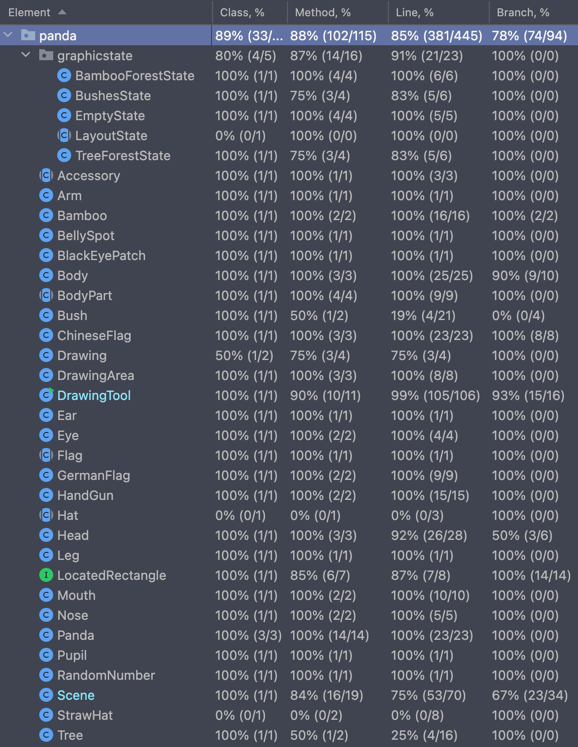
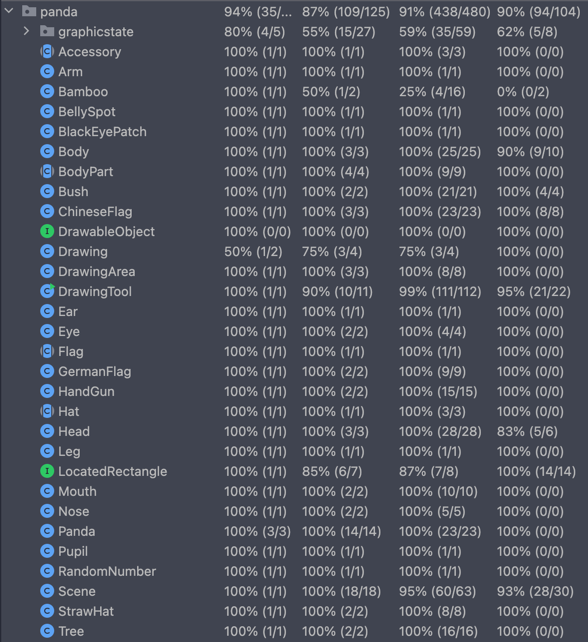
Changes tests for the new state machine + updated coverage and class diagram

Changed region(s): [[0.0, 0.0, 1.0, 0.9969]]

diff --git a/src/test/java/panda/DrawingToolTest.java b/src/test/java/panda/DrawingToolTest.java
@@ -77,29 +77,30 @@ class DrawingToolTest {
     }
 
     @Test
-    void testChangeStateButton() {
-        ActionEvent e = new ActionEvent(drawingTool.getButtons().get(0), 0, "");
-        // traversing through all the possible states by pressing "Change state" button
+    void testChangeToBamboos() {
         assertInstanceOf(EmptyState.class, scene.getState());
+        ActionEvent e = new ActionEvent(drawingTool.getButtons().get(0), 0, "");
         drawingTool.actionPerformed(e);
         assertInstanceOf(BambooForestState.class, scene.getState());
+    }
+
+    @Test
+    void testChangeToTrees() {
+        ActionEvent e = new ActionEvent(drawingTool.getButtons().get(1), 0, "");
         drawingTool.actionPerformed(e);
         assertInstanceOf(TreeForestState.class, scene.getState());
+    }
+
+    @Test
+    void testChangeToBushes() {
+        ActionEvent e = new ActionEvent(drawingTool.getButtons().get(2), 0, "");
         drawingTool.actionPerformed(e);
         assertInstanceOf(BushesState.class, scene.getState());
-        drawingTool.actionPerformed(e);
-        assertInstanceOf(EmptyState.class, scene.getState());
     }
 
     @Test
     void testDisableStateButton() {
-        ActionEvent e = new ActionEvent(drawingTool.getButtons().get(0), 0, "");
-        // making sure we got a state that is different form the initial by pressing "Change State" button
-        assertInstanceOf(EmptyState.class, scene.getState());
-        drawingTool.actionPerformed(e);
-        assertInstanceOf(BambooForestState.class, scene.getState());
-        // pressing the button "Disable state" and checking the state
-        e = new ActionEvent(drawingTool.getButtons().get(1), 0, "");
+        ActionEvent e = new ActionEvent(drawingTool.getButtons().get(3), 0, "");
         drawingTool.actionPerformed(e);
         assertInstanceOf(EmptyState.class, scene.getState());
     }

diff --git a/src/test/java/panda/StateTest.java b/src/test/java/panda/StateTest.java
@@ -9,18 +9,18 @@ import panda.graphicstate.*;
 import java.awt.*;
 
 public class StateTest {
-    LayoutState state = new EmptyState(new Scene(new Dimension()));
+    LayoutState state = EmptyState.getInstance(new Scene(new Dimension()));
 
     @Test
     void checkStateRotation() {
         assertInstanceOf(EmptyState.class, state);
-        state = state.nextState();
+        state = state.drawBamboos();
         assertInstanceOf(BambooForestState.class, state);
-        state = state.nextState();
+        state = state.drawTrees();
         assertInstanceOf(TreeForestState.class, state);
-        state = state.nextState();
+        state = state.drawBushes();
         assertInstanceOf(BushesState.class, state);
-        state = state.nextState();
+        state = state.erase();
         assertInstanceOf(EmptyState.class, state);
     }
 }
